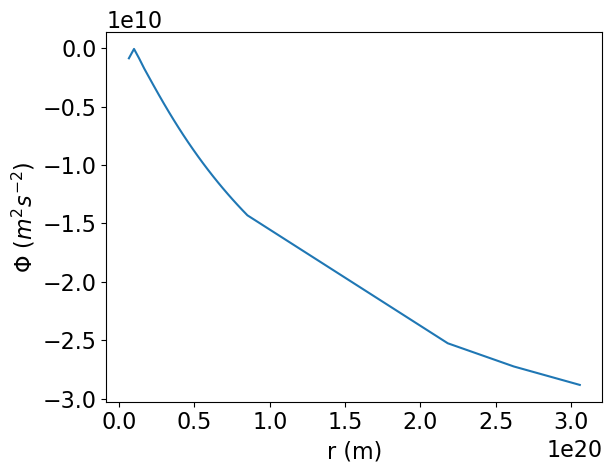
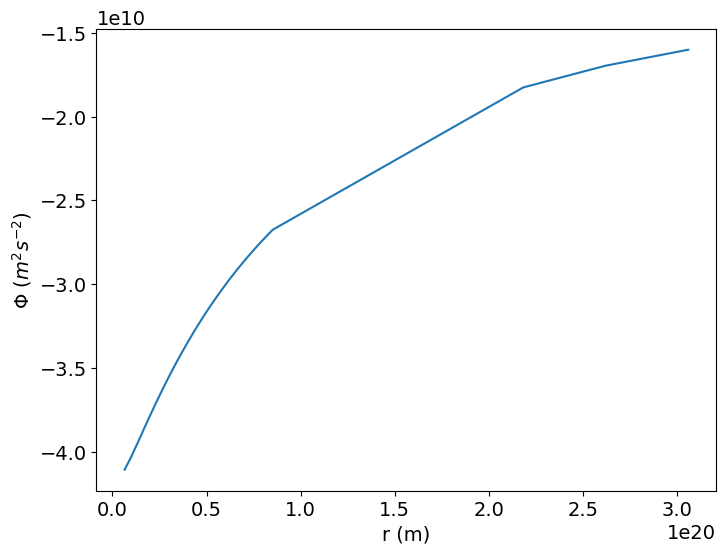
branch with no absolute value

diff --git a/util.py b/util.py
@@ -57,7 +57,7 @@ def get_grad(r, v, n, x):
                 K_fac = tf.constant(-6.67*10**(-11) * 10**(39), dtype = tf.float64)
                 phi = tf.multiply(K_fac, tf.divide(num, den)) # get K - gravitational potential
 
-            dphidr = tf.math.abs(tape_r.gradient(phi, r))
+            dphidr = tape_r.gradient(phi, r)
             v_calc = tf.sqrt(tf.multiply(dphidr, r))
             if False:
                 tf.print("num", num)
@@ -103,6 +103,14 @@ def plot_velocities(r, v_data, v_calc, plot_name):
     plt.xlabel("r (m)"); plt.legend()
     plt.ylabel("orbital velocity ($m s^{-1}$)")
     plt.savefig(f"plots/r_vorb_{plot_name}.png", bbox_inches = "tight")
+    return
+
+def plot_v2r(r, v_data, plot_name):
+    plt.clf()
+    plt.plot(r, np.square(v_data)/r, label = "data")
+    plt.xlabel("r (m)"); plt.legend()
+    plt.ylabel("centripetal acceleration ($v^{-2}r^{-1}$)")
+    plt.savefig(f"plots/cent_acc_{plot_name}.png", bbox_inches = "tight")
     return
 
 def plot_s(r, x, plot_name):

diff --git a/solve_for_s.py b/solve_for_s.py
@@ -21,15 +21,22 @@ def get_s(galaxy_dict):
     #                 "x2": [0.2, 0.8]}
 
     # Works well with absolute value on dPhidr
-    grid_ranges = {"x0": [2.8, 4],
-                    "x1": [1.5, 2],
-                    "x2": [1, 1.5]}
+    # grid_ranges = {"x0": [2.8, 4],
+    #                 "x1": [1.5, 2],
+    #                 "x2": [1, 1.5]}
 
+    plot_v2r(r = galaxy_dict["r"], v_data = galaxy_dict["v"], plot_name ="1")
+    import pdb; pdb.set_trace()
+    grid_ranges = {"x0": [2.5, 2.7],
+                    "x1": [1.5, 1.6],
+                    "x2": [1.7, 1.8]}
+    #
     # grid_ranges = {"x0": [0.5, 2],
     #                 "x1": [0.5, 2],
     #                 "x2": [0.2, 1.5]}
 
     grid_x = grid_search(grid_ranges, galaxy_dict)
+    import pdb; pdb.set_trace()
     newton_x = run_newton_solve(initial_guess = grid_x, galaxy_dict = galaxy_dict)
     import pdb; pdb.set_trace()
     # initial residual_norm, acceptable residual norm, number of Newton iterations

diff --git a/grid_search_util.py b/grid_search_util.py
@@ -67,7 +67,7 @@ def grid_search(grid_ranges, galaxy_dict):
     plot_velocities(r, v, v_calc, "grid_search")
     plot_s(r, best_x, "grid_search")
 
-    import pdb; pdb.set_trace()
+    #import pdb; pdb.set_trace()
     return best_x
 
 
